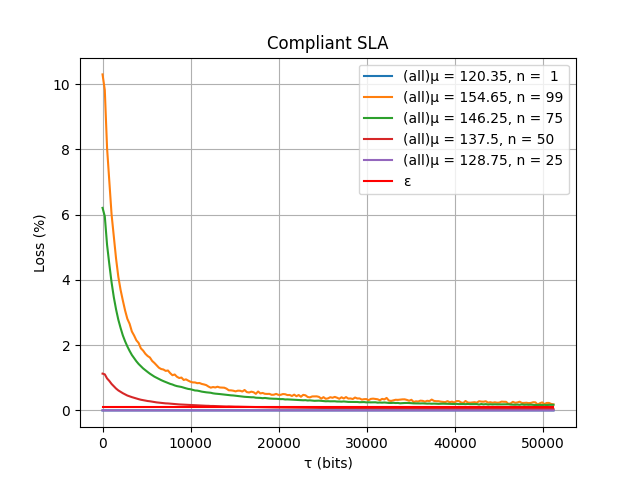
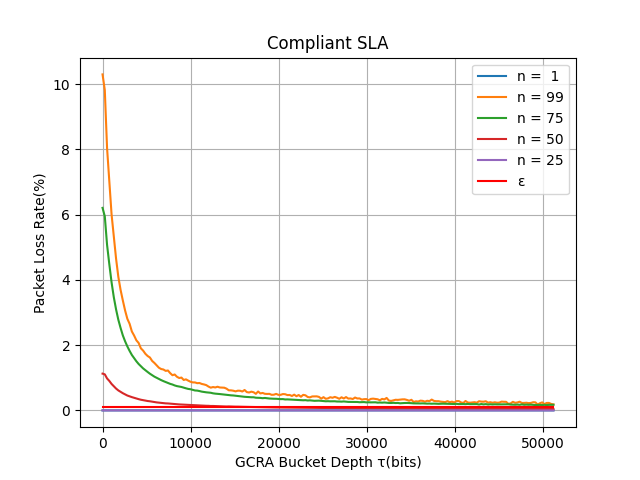
update chart

diff --git a/Simulation/source/skript.c b/Simulation/source/skript.c
@@ -181,7 +181,7 @@ int main(int argc, char *argv[])
         sprintf(data_path, "../data/%s", name);       ///< Construct the path for the data directory.
         config.data_path = data_path;                 ///< Set the data path in the configuration structure.
         modify_ini_file(configuration_path, &config); ///< Update the INI file with the current configuration.
-#ifdef NORMAL_MODE
+#ifndef APPEND_MODE
         // Prepare the data directory by removing existing data and creating new directories.
         sprintf(command, "rm -r %s", config.data_path);        ///< Command to remove the existing data directory.
         system(command);                                       ///< Execute the command.
@@ -194,6 +194,7 @@ int main(int argc, char *argv[])
         write_statistics_header_config(config, HEADER_TYPE_AVERAGE); ///< Write the header for average statistics.
         write_statistics_header_config(config, HEADER_TYPE_ALL);     ///< Write the header for all statistics.
         write_statistics_header_config(config, HEADER_TYPE_TAU);     ///< Write the header for tau statistics.
+#endif
 
         // Set additional configuration parameters for non-compliant mode.
         config.traffic_mode = TRAFFIC_MODE_NONCOMPLIANT_UNIFORM; ///< Update traffic mode to non-compliant uniform.
@@ -210,13 +211,6 @@ int main(int argc, char *argv[])
 
             sprintf(command, "../execution/main %s", configuration_path); ///< Command to execute the main program.
             system(command);                                              ///< Execute the command.
-
-            // Run Python scripts for data analysis.
-            sprintf(command, "python3 %s %s %s", PYTHON_AVERAGE_LOSS_CHART_PATH, name, configuration_path); ///< Command for average loss chart.
-            system(command);                                                                                ///< Execute the command.
-
-            sprintf(command, "python3 %s %s %s", PYTHON_COMPLIANT_AND_NONCOMPLIANT_TAU_CHART_PATH, name, configuration_path); ///< Command for compliant and non-compliant tau chart.
-            system(command);                                                                                                  ///< Execute the command.
 
             sprintf(command, "python3 %s %s %s", PYTHON_COMPLIANT_AND_NONCOMPLIANT_ALL_CHART_PATH, name, configuration_path); ///< Command for compliant and non-compliant tau chart.
             system(command);                                                                                                  ///< Execute the command.
@@ -235,12 +229,7 @@ int main(int argc, char *argv[])
                 sprintf(command, "../execution/main %s", configuration_path); ///< Command to execute the main program.
                 system(command);                                              ///< Execute the command.
 
-                // Run Python scripts for data analysis.
-                sprintf(command, "python3 %s %s %s", PYTHON_AVERAGE_LOSS_CHART_PATH, name, configuration_path); ///< Command for average loss chart.
-                system(command);                                                                                ///< Execute the command.
-
-                sprintf(command, "python3 %s %s %s", PYTHON_COMPLIANT_AND_NONCOMPLIANT_TAU_CHART_PATH, name, configuration_path); ///< Command for compliant and non-compliant tau chart.
-                system(command);                                                                                                  ///< Execute the command.
+                // Run Python scripts for data analysis.///< Execute the command.
 
                 sprintf(command, "python3 %s %s %s", PYTHON_COMPLIANT_AND_NONCOMPLIANT_ALL_CHART_PATH, name, configuration_path); ///< Command for compliant and non-compliant tau chart.
                 system(command);
@@ -259,72 +248,9 @@ int main(int argc, char *argv[])
             system(command);                                              ///< Execute the command.
 
             // Run Python scripts for data analysis.
-            sprintf(command, "python3 %s %s %s", PYTHON_AVERAGE_LOSS_CHART_PATH, name, configuration_path); ///< Command for average loss chart.
-            system(command);                                                                                ///< Execute the command.
-
-            sprintf(command, "python3 %s %s %s", PYTHON_COMPLIANT_AND_NONCOMPLIANT_TAU_CHART_PATH, name, configuration_path); ///< Command for compliant and non-compliant tau chart.
-            system(command);
-
             sprintf(command, "python3 %s %s %s", PYTHON_COMPLIANT_AND_NONCOMPLIANT_ALL_CHART_PATH, name, configuration_path); ///< Command for compliant and non-compliant tau chart.
             system(command);                                                                                                  ///< Execute the command.
         }
-#endif
-
-#ifdef APPPEND_MODE
-
-        // Set additional configuration parameters for non-compliant mode.
-        config.traffic_mode = TRAFFIC_MODE_NONCOMPLIANT_UNIFORM; ///< Update traffic mode to non-compliant uniform.
-        config.noncompliant_mean = 155;                          ///< Set the mean for non-compliant configuration.
-
-        config.noncompliant_tenant_number = 1;                             ///< Set the initial tenant number for non-compliant mode.
-        config.noncompliant_mode = NONCOMPLIANT_MODE_EXTREME_NONCOMPLIANT; ///< Set the mode for extreme non-compliance.
-
-        // Loop through tau values and execute the main program for each.
-        for (long tau = 25600 + step; tau <= 51200; tau += step)
-        {
-            config.tau = tau;                             ///< Set the current tau value in the configuration.
-            modify_ini_file(configuration_path, &config); ///< Update the INI file with the new tau value.
-
-            sprintf(command, "../execution/main %s", configuration_path); ///< Command to execute the main program.
-            system(command);                                              ///< Execute the command.
-
-            sprintf(command, "python3 %s %s %s", PYTHON_COMPLIANT_AND_NONCOMPLIANT_ALL_CHART_PATH, name, configuration_path); ///< Command for compliant and non-compliant tau chart.
-            system(command);                                                                                                  ///< Execute the command.
-        }
-
-        config.noncompliant_mode = NONCOMPLIANT_MODE_AVERAGE; ///< Set the mode for non-compliant configuration to average.
-
-        // Loop through tenant numbers and tau values for further analysis.
-        for (int noncompliant_number = 25; noncompliant_number <= 75; noncompliant_number += 25)
-            for (long tau = 25600 + step; tau <= 51200; tau += step)
-            {
-                config.tau = tau;                                        ///< Set the current tau value in the configuration.
-                config.noncompliant_tenant_number = noncompliant_number; ///< Update the tenant number for the current iteration.
-                modify_ini_file(configuration_path, &config);            ///< Update the INI file with the new configuration.
-
-                sprintf(command, "../execution/main %s", configuration_path); ///< Command to execute the main program.
-                system(command);                                              ///< Execute the command.                                                                                             ///< Execute the command.
-
-                sprintf(command, "python3 %s %s %s", PYTHON_COMPLIANT_AND_NONCOMPLIANT_ALL_CHART_PATH, name, configuration_path); ///< Command for compliant and non-compliant tau chart.
-                system(command);
-            }
-
-        config.noncompliant_tenant_number = 99;                         ///< Set the tenant number for extreme compliant mode.
-        config.noncompliant_mode = NONCOMPLIANT_MODE_EXTREME_COMPLIANT; ///< Set the mode for extreme compliance.
-
-        // Loop through tau values and execute the main program for each in extreme compliant mode.
-        for (long tau = 25600 + step; tau <= 51200; tau += step)
-        {
-            config.tau = tau;                             ///< Set the current tau value in the configuration.
-            modify_ini_file(configuration_path, &config); ///< Update the INI file with the new tau value.
-
-            sprintf(command, "../execution/main %s", configuration_path); ///< Command to execute the main program.
-            system(command);                                              ///< Execute the command.
-
-            sprintf(command, "python3 %s %s %s", PYTHON_COMPLIANT_AND_NONCOMPLIANT_ALL_CHART_PATH, name, configuration_path); ///< Command for compliant and non-compliant tau chart.
-            system(command);                                                                                                  ///< Execute the command.
-        }
-#endif
         break;
     case BURST_ALL_COMPLIANT:
         strcpy(name, "burst_all_compliant");                          ///< Set the name for the configuration.

diff --git a/Simulation/python/compliant_and_non_compliant_all.py b/Simulation/python/compliant_and_non_compliant_all.py
@@ -65,7 +65,7 @@ if(name == 'uniform_different_noncompliant_number'):
         noncompliant_loss_all = dataframe[dataframe['noncompliant_tenant_number'] == key][['noncompliant_loss_all']]
         if(len(noncompliant_loss_all)!=0):
             tau = dataframe[dataframe['noncompliant_tenant_number'] == key]['tau'].tolist()
-            plt.plot(tau[:], noncompliant_loss_all[:], linestyle='-', label='(all)μ = {}, n = {:2d}'.format(real_noncompliant_mean, key), alpha = 1)
+            plt.plot(tau[:], noncompliant_loss_all[:], linestyle='-', label='n = {:2d}'.format(key), alpha = 1)
     plt.plot(tau_[:], [0.1 for i in tau_][:], linestyle='-', color = 'red', label='ε')
     # plt.title('Packet Loss with different τ and μ ({}) Non-compliant'.format(name), fontsize=7.5)
     plt.title('Non-compliant SLA')
@@ -81,7 +81,7 @@ if(name == 'uniform_different_noncompliant_number'):
         compliant_loss_all = dataframe[dataframe['noncompliant_tenant_number'] == key][['compliant_loss_all']]
         if(len(compliant_loss_all)!=0):
             tau = dataframe[dataframe['noncompliant_tenant_number'] == key]['tau'].tolist()
-            plt.plot(tau[:], compliant_loss_all[:], linestyle='-', label='(all)μ = {}, n = {:2d}'.format(real_noncompliant_mean, key), alpha = 1)
+            plt.plot(tau[:], compliant_loss_all[:], linestyle='-', label='n = {:2d}'.format(key), alpha = 1)
     plt.plot(tau_[:], [0.1 for i in tau_][:], linestyle='-', color = 'red', label='ε')
     # plt.title('Packet Loss with different τ and μ ({}) Compliant'.format(name), fontsize=7.5)
     plt.title('Compliant SLA')
